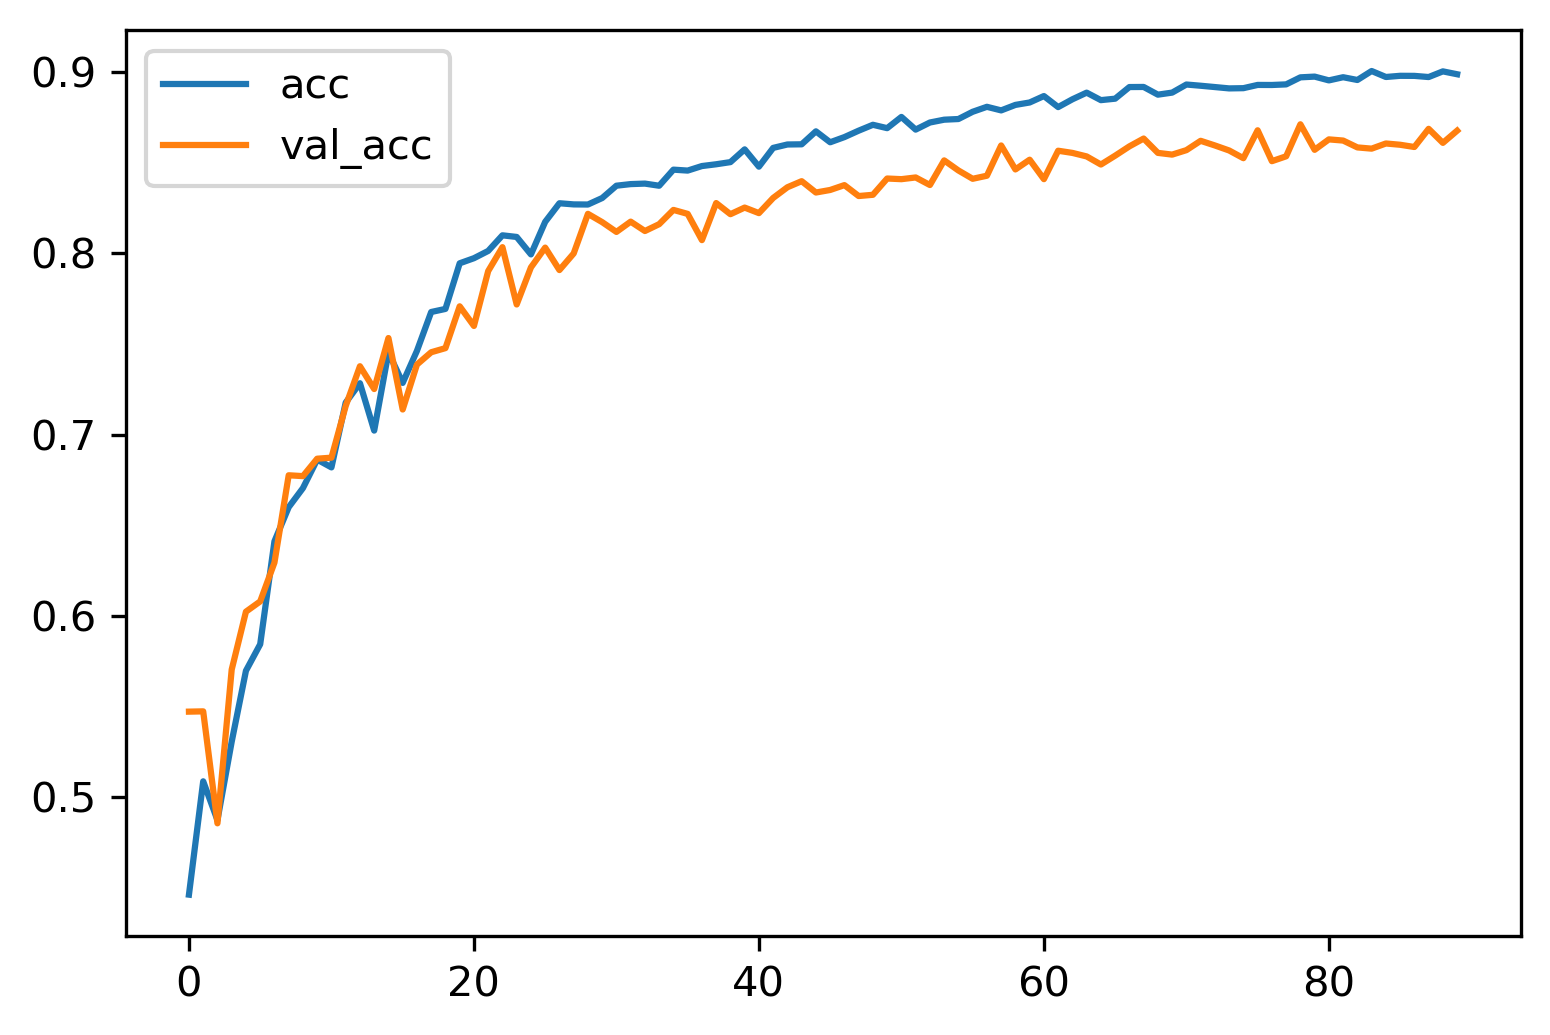
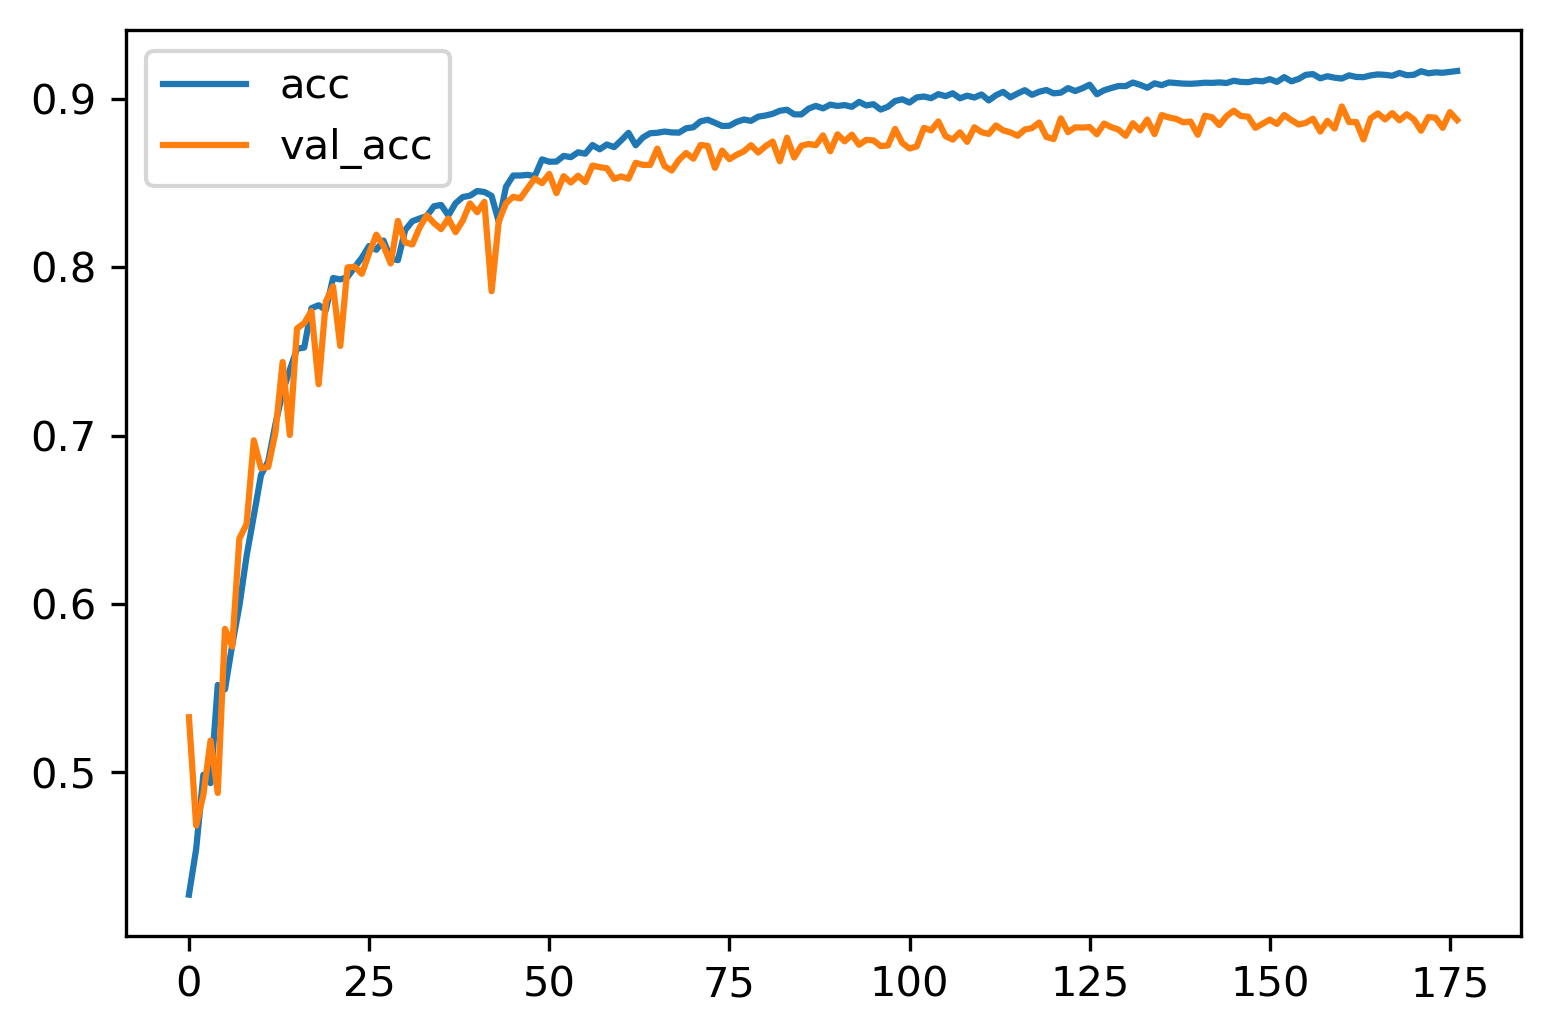
更新Unet预测及笔记

diff --git a/using Unet on dataset1 experiemnt.md b/using Unet on dataset1 experiemnt.md
@@ -18,7 +18,7 @@
 
 训练损失函数和验证损失函数
 </center>
-而对于训练精度和验证精度其实和loss是差不多的,有可能训练批数还不太够,这里只训练了200个epochs   
+
 <center>
 <img src=./image/Unet-dataset1-acc_val_acc.png alt="训练精度和验证精度"  width="80%" height="80%" />        
 
@@ -26,25 +26,49 @@
 </center>
 
 ## IoU度量标准
-平均IoU为0.211
->class 00: #TP=246734, #FP= 38910, #FN=173106, IoU=0.538  
-class 01: #TP=566080, #FP=561078, #FN=160236, IoU=0.440  
-class 02: #TP=  2296, #FP= 15739, #FN=27665, IoU=0.050  
-class 03: #TP=267033, #FP=  8703, #FN=600431, IoU=0.305  
-class 04: #TP= 32572, #FP=144479, #FN=110899, IoU=0.113  
-class 05: #TP=189094, #FP=214809, #FN=67965, IoU=0.401  
-class 06: #TP=  6107, #FP= 28735, #FN=23836, IoU=0.104  
-class 07: #TP=  8894, #FP=  9831, #FN=23309, IoU=0.212  
-class 08: #TP= 49335, #FP= 26853, #FN=126864, IoU=0.243  
-class 09: #TP=  1323, #FP=  5656, #FN=18705, IoU=0.052  
-class 10: #TP=     9, #FP=  2790, #FN=11597, IoU=0.001  
-class 11: #TP= 33984, #FP=348812, #FN=61782, IoU=0.076  
+在从训练集中划分出来56张图片的测试集进行测试,结果如下:
+>class 00: #TP=207088, #FP= 28336, #FN=212752, IoU=0.462  
+class 01: #TP=574718, #FP=671774, #FN=151598, IoU=0.411  
+class 02: #TP=  2538, #FP= 18990, #FN=27423, IoU=0.052  
+class 03: #TP=269185, #FP=  9602, #FN=598279, IoU=0.307  
+class 04: #TP= 42340, #FP=152351, #FN=101131, IoU=0.143  
+class 05: #TP=146064, #FP=106900, #FN=110995, IoU=0.401  
+class 06: #TP=  5212, #FP= 23990, #FN=24731, IoU=0.097  
+class 07: #TP=  9601, #FP= 29449, #FN=22602, IoU=0.156  
+class 08: #TP= 47198, #FP= 31821, #FN=129001, IoU=0.227  
+class 09: #TP=  3051, #FP= 19812, #FN=16977, IoU=0.077  
+class 10: #TP=   546, #FP=  4375, #FN=11060, IoU=0.034  
+class 11: #TP= 45427, #FP=359488, #FN=50339, IoU=0.100  
 \_________________  
-Mean IoU: 0.211  
+Mean IoU: 0.206  
+
+对数据集中101张测试集进行测试,结果如下:
+>class 00: #TP=   992, #FP=   451, #FN=805370, IoU=0.001  
+class 01: #TP=2059859, #FP=1810386, #FN=198984, IoU=0.506  
+class 02: #TP=  1701, #FP= 24656, #FN=33821, IoU=0.028  
+class 03: #TP= 33586, #FP=  2663, #FN=658302, IoU=0.048  
+class 04: #TP= 34269, #FP= 53171, #FN=271791, IoU=0.095  
+class 05: #TP=151103, #FP=212529, #FN=203166, IoU=0.267  
+class 06: #TP=  5232, #FP= 32890, #FN=86787, IoU=0.042  
+class 07: #TP=     0, #FP= 12409, #FN=50173, IoU=0.000  
+class 08: #TP= 43352, #FP=108597, #FN=28296, IoU=0.241  
+class 09: #TP= 30738, #FP=106011, #FN=28190, IoU=0.186  
+class 10: #TP= 17216, #FP=  1832, #FN=230801, IoU=0.069  
+class 11: #TP= 20307, #FP=303826, #FN=73740, IoU=0.051  
+\_________________  
+Mean IoU: 0.128  
 
 ## 实验效果
+从训练集划分出的测试集效果如下:
 <center>
 <img src=./image/Unet-dataset1-seg_example_0.png alt="分割示例0"  />        
 <img src=./image/Unet-dataset1-seg_example_1.png alt="分割示例1"  />  
 <img src=./image/Unet-dataset1-seg_example_2.png alt="分割示例2"  />  
+</center>
+
+对数据集中的测试集效果如下所示:
+<center>
+<img src=./image/Unet-dataset1-test-seg_example_0.png alt="分割示例0"  />        
+<img src=./image/Unet-dataset1-test-seg_example_1.png alt="分割示例1"  />  
+<img src=./image/Unet-dataset1-test-seg_example_2.png alt="分割示例2"  />  
 </center>
